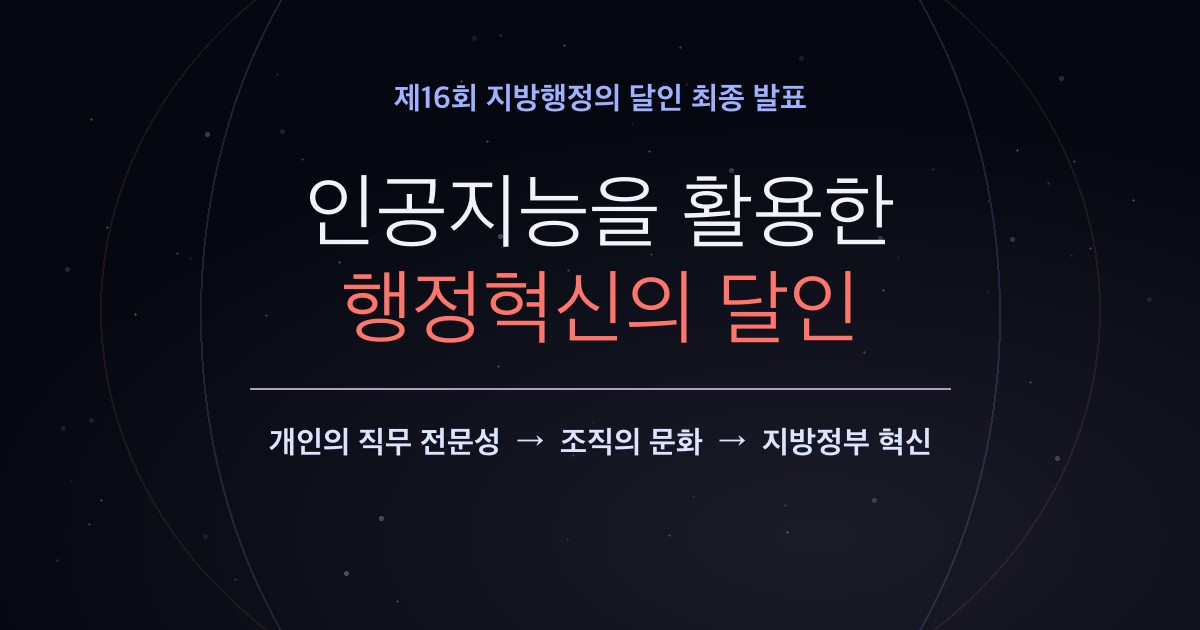
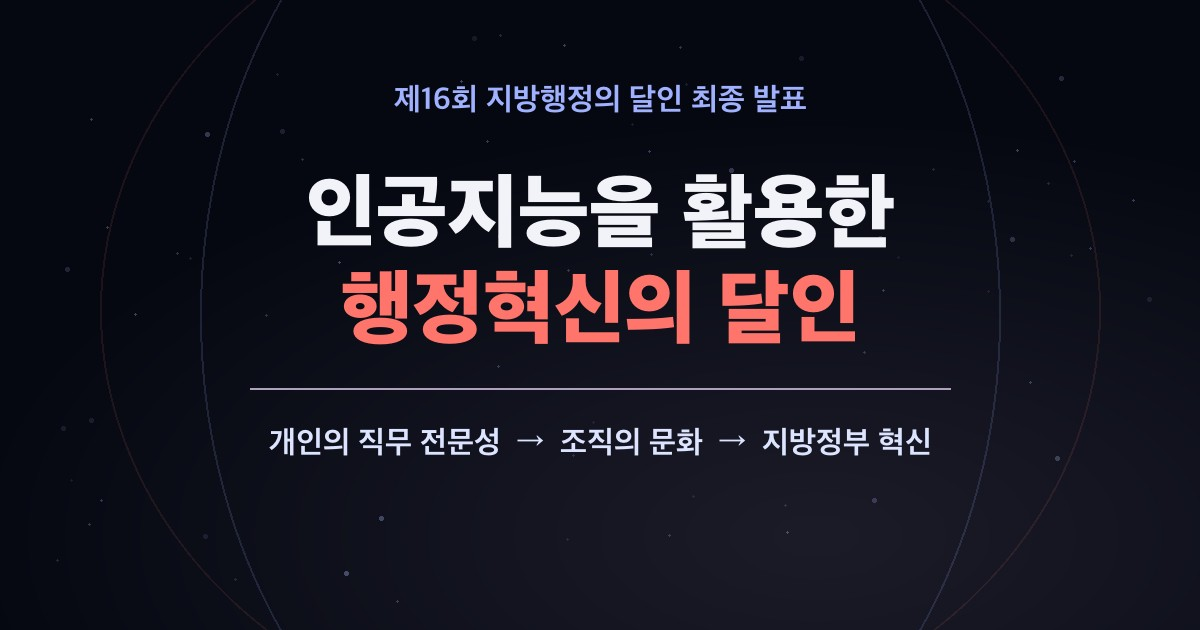
Match sharing preview typography to presentation

Changed region(s): [[0.2467, 0.2714, 0.74, 0.573], [0.3392, 0.1206, 0.6783, 0.181]]

diff --git a/index.html b/index.html
@@ -9,7 +9,7 @@
 <meta property="og:type" content="website">
 <meta property="og:title" content="제16회 지방행정의 달인 인공지능을 활용한 행정혁신 최종발표">
 <meta property="og:description" content="인공지능을 활용한 행정혁신, 지방행정의 달인 최종 발표 자료입니다.">
-<meta property="og:image" content="https://daeung79.github.io/26_Dalin/preview.jpg">
+<meta property="og:image" content="https://daeung79.github.io/26_Dalin/preview.jpg?v=2">
 <meta property="og:image:type" content="image/jpeg">
 <meta property="og:image:width" content="1200">
 <meta property="og:image:height" content="630">
@@ -17,7 +17,7 @@
 <meta name="twitter:card" content="summary_large_image">
 <meta name="twitter:title" content="제16회 지방행정의 달인 인공지능을 활용한 행정혁신 최종발표">
 <meta name="twitter:description" content="인공지능을 활용한 행정혁신, 지방행정의 달인 최종 발표 자료입니다.">
-<meta name="twitter:image" content="https://daeung79.github.io/26_Dalin/preview.jpg">
+<meta name="twitter:image" content="https://daeung79.github.io/26_Dalin/preview.jpg?v=2">
 <style>
 :root{--bg:#080b12;--paper:#f2f3f8;--muted:#a2aaba;--accent:#ff756b;--blue:#a0b1ff;--line:rgba(221,229,255,.18);--font:"Pretendard Variable",Pretendard,"Apple SD Gothic Neo","Malgun Gothic","Noto Sans KR",sans-serif}
 *{box-sizing:border-box}html,body{margin:0;width:100%;height:100%;overflow:hidden;background:#030509;color:var(--paper);font-family:var(--font)}button{font:inherit}button:focus-visible,a:focus-visible{outline:3px solid var(--blue);outline-offset:5px}button{cursor:pointer}button:disabled{opacity:.3;cursor:default}[hidden]{display:none!important}
